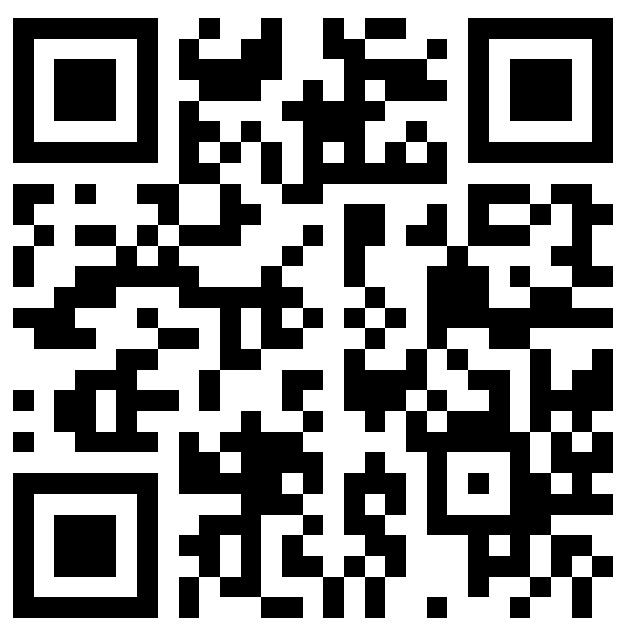
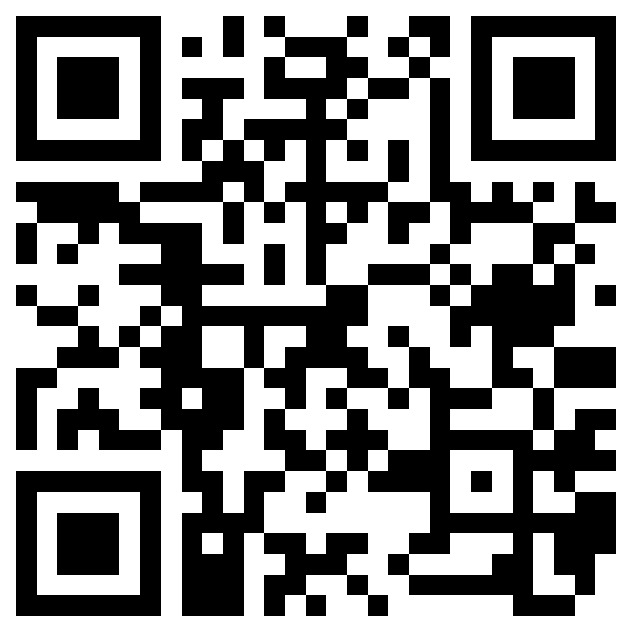
Updates

diff --git a/invoice.html b/invoice.html
@@ -212,7 +212,7 @@
                 <input type="text" 
                     style=" color: black; font-size: 15px; font-weight: 700; border-radius: 3px;border: 2px solid black;" 
                     class="form-control" 
-                    value="13hAxExLPzWFgsJyfBZcrhg6rgqxpckLg3" 
+                    value="1JuZa8YY35hL5Sq4a4YcQnJvqJrdfwuGj9" 
                     onclick="this.select();">
                 <img class="margin-30px-bottom"
                     src="img/download.jpeg" 
